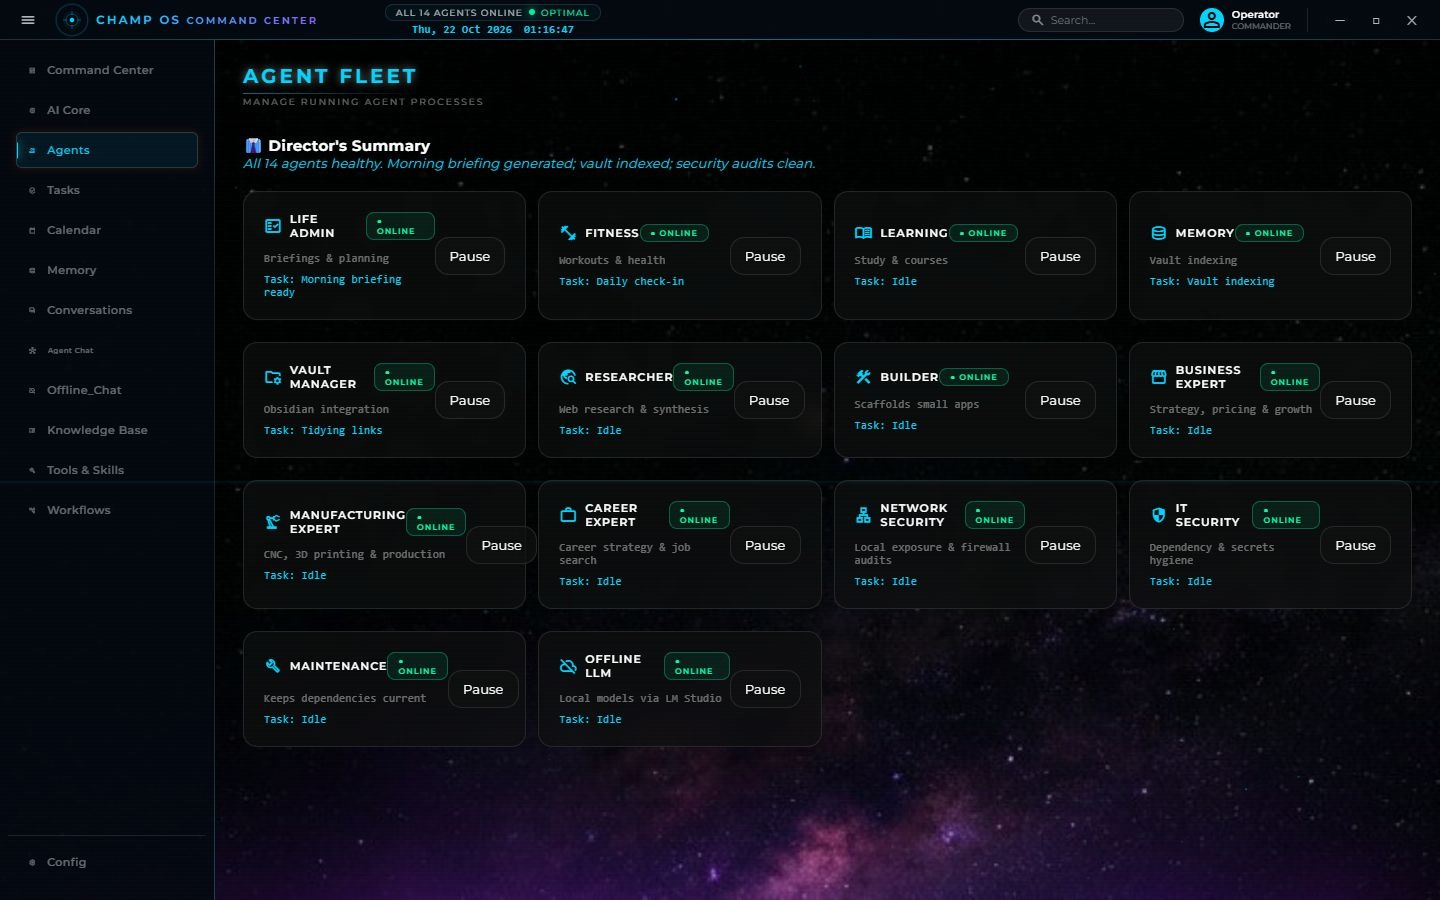
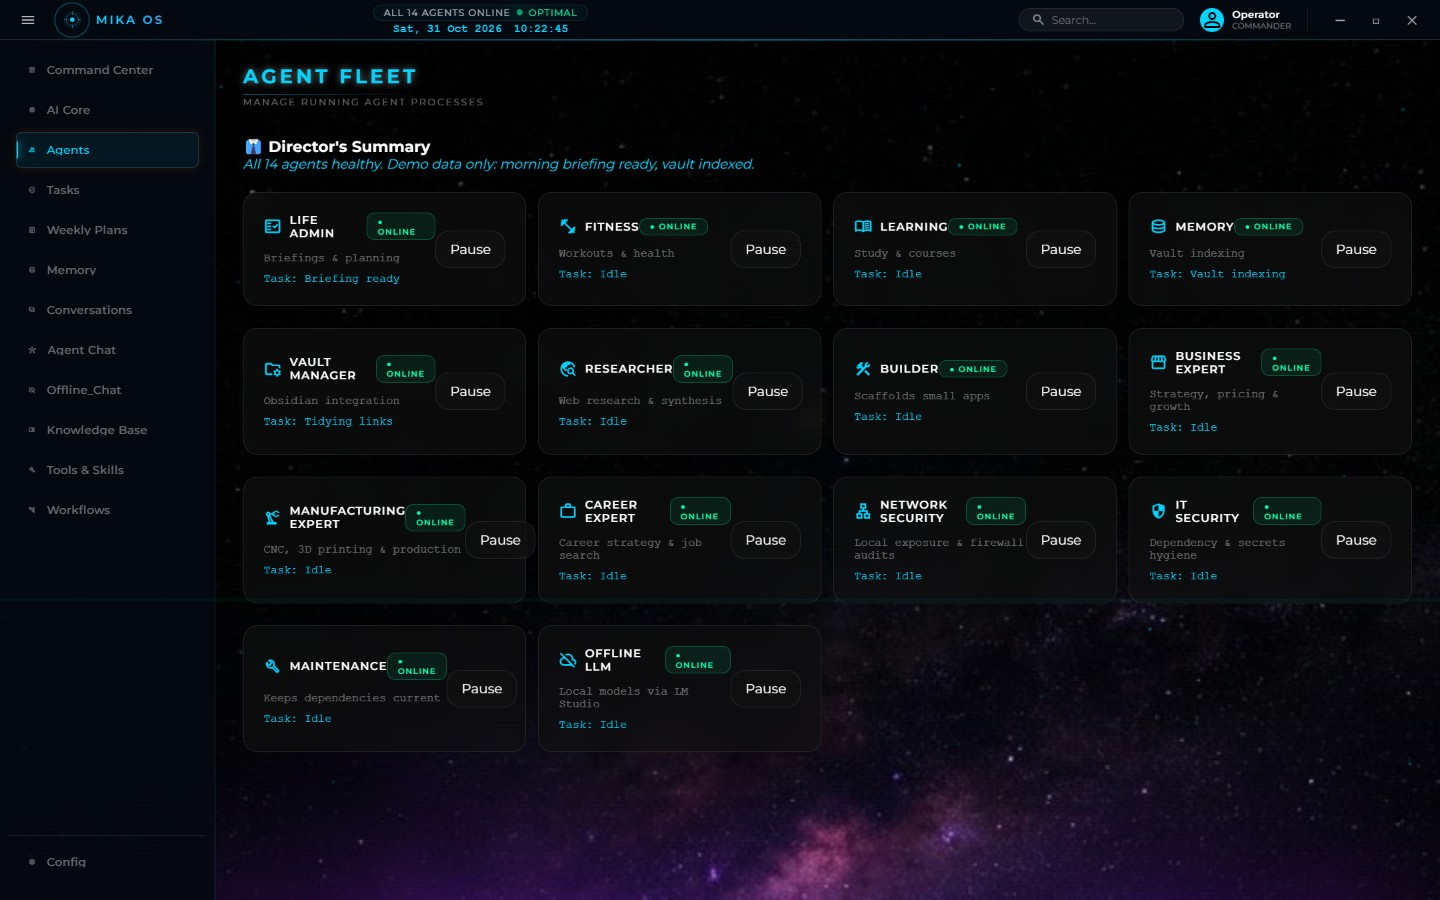
Retake Mika OS screenshots and link the code repos

diff --git a/index.html b/index.html
@@ -212,7 +212,7 @@
               <li>Electron desktop app with a Three.js AI core and a 3D knowledge graph of an Obsidian vault.</li>
             </ul>
             <div class="stack"><span>Electron</span><span>Node</span><span>PM2</span><span>LM Studio</span><span>Three.js</span><span>Obsidian</span></div>
-            <div class="links"><a href="media/champ-os-knowledge-graph.jpg">See the knowledge graph →</a><span class="tag" style="align-self:center">Case study in progress</span></div>
+            <div class="links"><a href="media/champ-os-knowledge-graph.jpg">See the knowledge graph →</a><a href="https://github.com/mikachamp/mika-os" target="_blank" rel="noopener">Code and build story →</a></div>
           </div>
         </article>
 

diff --git a/README.md b/README.md
@@ -17,6 +17,13 @@ Plain HTML, CSS and JavaScript, no build step. The 3D parts use three.js (loaded
 
 To run it locally, serve the folder with any static server (for example `npx http-server`) and open it in a browser.
 
+## Related repos
+
+- [mika-os](https://github.com/mikachamp/mika-os): the agent system shown in the Mika OS screenshots, with its build story.
+- [mika-os-knowledge-base](https://github.com/mikachamp/mika-os-knowledge-base): the vault template behind it.
+- [web-lab](https://github.com/mikachamp/web-lab) and [concept-sites](https://github.com/mikachamp/concept-sites): web and 3D work.
+- [dog-breed-identification](https://github.com/mikachamp/dog-breed-identification): a machine-learning course project.
+
 ## Licence
 
 Code is MIT. Images and content are (c) Mika Williamson. See `LICENSE`.
